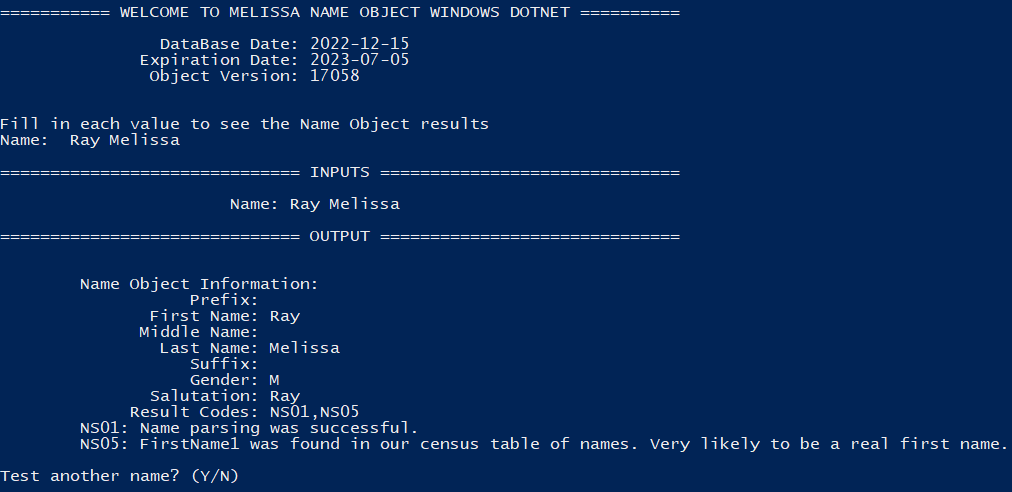
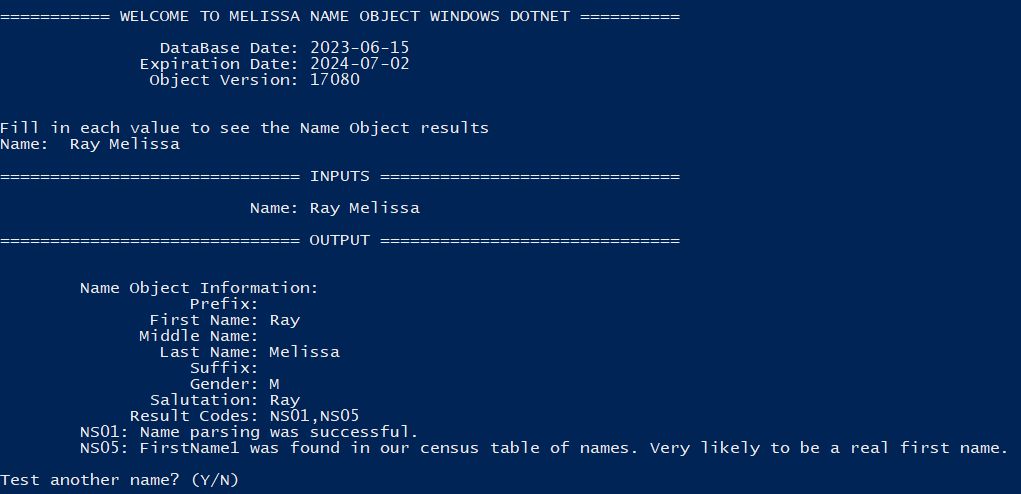
Tested successfully using Melissa data files for 2023.07

diff --git a/MelissaNameObjectWindowsDotnet/mdName_cSharpCode.cs b/MelissaNameObjectWindowsDotnet/mdName_cSharpCode.cs
@@ -130,8 +130,6 @@ namespace MelissaData {
 			public static extern IntPtr mdNameGetErrorCode(IntPtr i);
 			[DllImport("mdName", EntryPoint = "mdNameGetChangeCode", CallingConvention = CallingConvention.Cdecl)]
 			public static extern IntPtr mdNameGetChangeCode(IntPtr i);
-			[DllImport("mdName", EntryPoint = "mdNameGetDebugInfo", CallingConvention = CallingConvention.Cdecl)]
-			public static extern IntPtr mdNameGetDebugInfo(IntPtr i, IntPtr p1);
 			[DllImport("mdName", EntryPoint = "mdNameGetResults", CallingConvention = CallingConvention.Cdecl)]
 			public static extern IntPtr mdNameGetResults(IntPtr i);
 			[DllImport("mdName", EntryPoint = "mdNameGetResultCodeDescription", CallingConvention = CallingConvention.Cdecl)]
@@ -343,11 +341,6 @@ namespace MelissaData {
 
 		public string GetChangeCode() {
 			return Utf8String.GetUnicodeString(mdNameUnmanaged.mdNameGetChangeCode(i));
-		}
-
-		public string GetDebugInfo(string p1) {
-			Utf8String u_p1 = new Utf8String(p1);
-			return Utf8String.GetUnicodeString(mdNameUnmanaged.mdNameGetDebugInfo(i, u_p1.GetUtf8Ptr()));
 		}
 
 		public string GetResults() {

diff --git a/MelissaNameObjectWindowsDotnet/Program.cs b/MelissaNameObjectWindowsDotnet/Program.cs
@@ -82,7 +82,7 @@ namespace MelissaNameObjectWindowsDotnet
 
         // Print user input
         Console.WriteLine("\n============================== INPUTS ==============================\n");
-        Console.WriteLine($"\t               Name: {dataContainer.Name}");
+        Console.WriteLine($"\t                 Name: {dataContainer.Name}");
 
         // Execute Name Object
         nameObject.ExecuteObjectAndResultCodes(ref dataContainer);

diff --git a/README.md b/README.md
@@ -1,7 +1,6 @@
 # Melissa - Name Object Windows Dotnet
 
 ## Purpose
-
 This code showcases the Melissa Name Object using C#.
 
 Please feel free to copy or embed this code to your own project. Happy coding!
@@ -24,10 +23,8 @@ And return
 - Result Codes
 
 ## Tested Environments
-
-- Windows 64-bit .NET 7.0, .NET 6.0, .NET 5.0, .NET Core 3.1
-- Powershell 5.1
-- Melissa data files for 2023-06
+- Windows 10 64-bit .NET 7.0, Powershell 5.1
+- Melissa data files for 2023-07
 
 ## Required File(s) and Programs
 
@@ -36,14 +33,11 @@ And return
 This is the c++ code of the Melissa Object.
 
 ### Data File(s)
-
 - mdName.cfg
 - mdName.dat
 
 ## Getting Started
 These instructions will get you a copy of the project up and running on your local machine for development and testing purposes.
-
-This project is compatible with .NET 7.0, .NET 6.0, .NET 5.0, and .NET Core 3.1. If you would like to run this project for any other version besides .NET 7.0, proceed with the following procedures but check for and download your desired .NET version.
 
 #### Install the Dotnet Core SDK
 Before starting, make sure that the .NET 7.0 SDK has been correctly installed on your machine (If you have Visual Studio installed, you most likely have it already). If you are unsure, you can check by opening a command prompt window and typing the following:
@@ -69,7 +63,6 @@ Click and download the `x64` SDK installer for your operating system.
 Once clicked, your web browser will begin downloading an installer for the SDK. Run the installer and follow all of the prompts to complete the installation (your computer may ask you to restart before you can continue). Once all of that is done, you should be able to verify that the SDK is installed with the `dotnet --list-sdks` command.
 
 #### Set up Powershell settings
-
 If running Powershell for the first time, you will need to run this command in the Powershell console: `Set-ExecutionPolicy RemoteSigned`.
 The console will then prompt you with the following warning shown in the image below. 
  - Enter `'A'`. 
@@ -81,12 +74,11 @@ The console will then prompt you with the following warning shown in the image b
 
 #### Download this project
 ```
-$ git clone https://github.com/MelissaData/NameObject-Dotnet.git
+$ git clone https://github.com/MelissaData/NameObject-Dotnet
 $ cd NameObject-Dotnet
 ```
 
 #### Set up Melissa Updater 
-
 Melissa Updater is a CLI application allowing the user to update their Melissa applications/data.
 
 - Download Melissa Updater here: <https://releases.melissadata.net/Download/Library/WINDOWS/NET/ANY/latest/MelissaUpdater.exe>
@@ -102,23 +94,7 @@ Melissa Updater is a CLI application allowing the user to update their Melissa a
 	- Use the location of where you copied/installed the data and update the "$DataPath" variable in the powershell script.
 	- Copy all the dll(s) mentioned above into the `MelissaNameObjectWindowsDotnet` project folder.
 
----
-
-#### Configure Target Framework
-
-Depending on your target .NET framework, you may need to configure the powershell script. In order to do this, open up the `MelissaNameObjectWindowsDotnet.ps1` for editing, proceed to the bottom of the script where you will find this section of code.
-
-Default set for .NET 7.0
-```
-dotnet publish -f="net7.0" -c Release -o $BuildPath MelissaNameObjectWindowsDotnet\MelissaNameObjectWindowsDotnet.csproj
-#dotnet publish -f="net6.0" -c Release -o $BuildPath MelissaNameObjectWindowsDotnet\MelissaNameObjectWindowsDotnet.csproj
-#dotnet publish -f="net5.0" -c Release -o $BuildPath MelissaNameObjectWindowsDotnet\MelissaNameObjectWindowsDotnet.csproj
-#dotnet publish -f="netcoreapp3.1" -c Release -o $BuildPath MelissaNameObjectWindowsDotnet\MelissaNameObjectWindowsDotnet.csproj
-```
-The target framework is specified with the -f flag found in the command line. If you wish to use any version besides .NET 7.0, please uncomment the line containing that framework and comment out the line containing the .NET 7.0 framework (# to comment).
-
 ## Run Powershell Script
-
 Parameters:
 - -name: a test name
  	
@@ -156,11 +132,9 @@ This is the expected output from a successful setup for interactive mode:
 ![alt text](/screenshots/output.png)
 
 ## Troubleshooting
-
 Troubleshooting for errors found while running your program.
 
 ### C# Errors:
-
 | Error      | Description |
 | ----------- | ----------- |
 | ErrorRequiredFileNotFound      | Program is missing a required file. Please check your Data folder and refer to the list of required files above. If you are unable to obtain all required files through the Melissa Updater, please contact technical support below. |
@@ -169,7 +143,6 @@ Troubleshooting for errors found while running your program.
 | ErrorLicenseExpired   | Expired license string. Please contact technical support below. |
 
 ## Contact Us
-
 For free technical support, please call us at 800-MELISSA ext. 4 (800-635-4772 ext. 4) or email us at tech@melissa.com.
 
 To purchase this product, contact the Melissa Data sales department at 800-MELISSA ext. 3 (800-635-4772 ext. 3).
